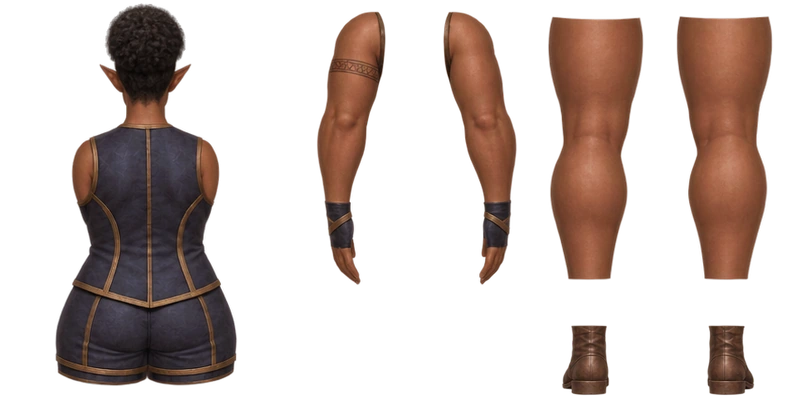
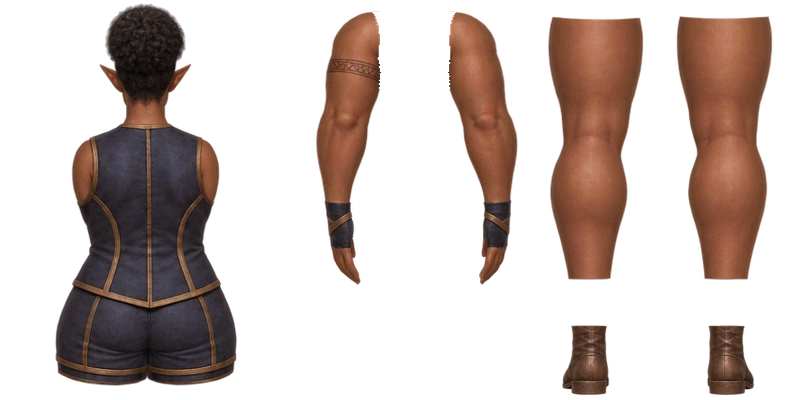
Refine elf shoulder sprites and Petite Pale leg seam for v0.3.55

diff --git a/app/src/main/java/com/cosmerearchives/dndroguelike/ElfBaseArt.java b/app/src/main/java/com/cosmerearchives/dndroguelike/ElfBaseArt.java
@@ -91,9 +91,17 @@ final class ElfBaseArt {
     }
 
     float fittedShoulderY(int facing, int index, boolean useFit) {
-        if (!useFit) return 0f;
-        return RigViewProfile.shoulderFitY(
-            appearanceId, facing, facings[facing].limbs[index].rootY);
+        if (!useFit || RigViewProfile.isSide(facing)) return 0f;
+        // Fit from the pre-raise reference so FIT does not undo the authored lift.
+        int liftPixels = switch (appearanceId) {
+            case "silver" -> 10;
+            case "braided" -> 4;
+            case "coiled" -> 7;
+            case "petite" -> 5;
+            default -> 0;
+        };
+        float referenceRootY = facings[facing].limbs[index].rootY + liftPixels * UNIT;
+        return RigViewProfile.shoulderFitY(appearanceId, facing, referenceRootY);
     }
 
     void drawBody(Canvas canvas, int facing, RigTorsoPose pose) {
